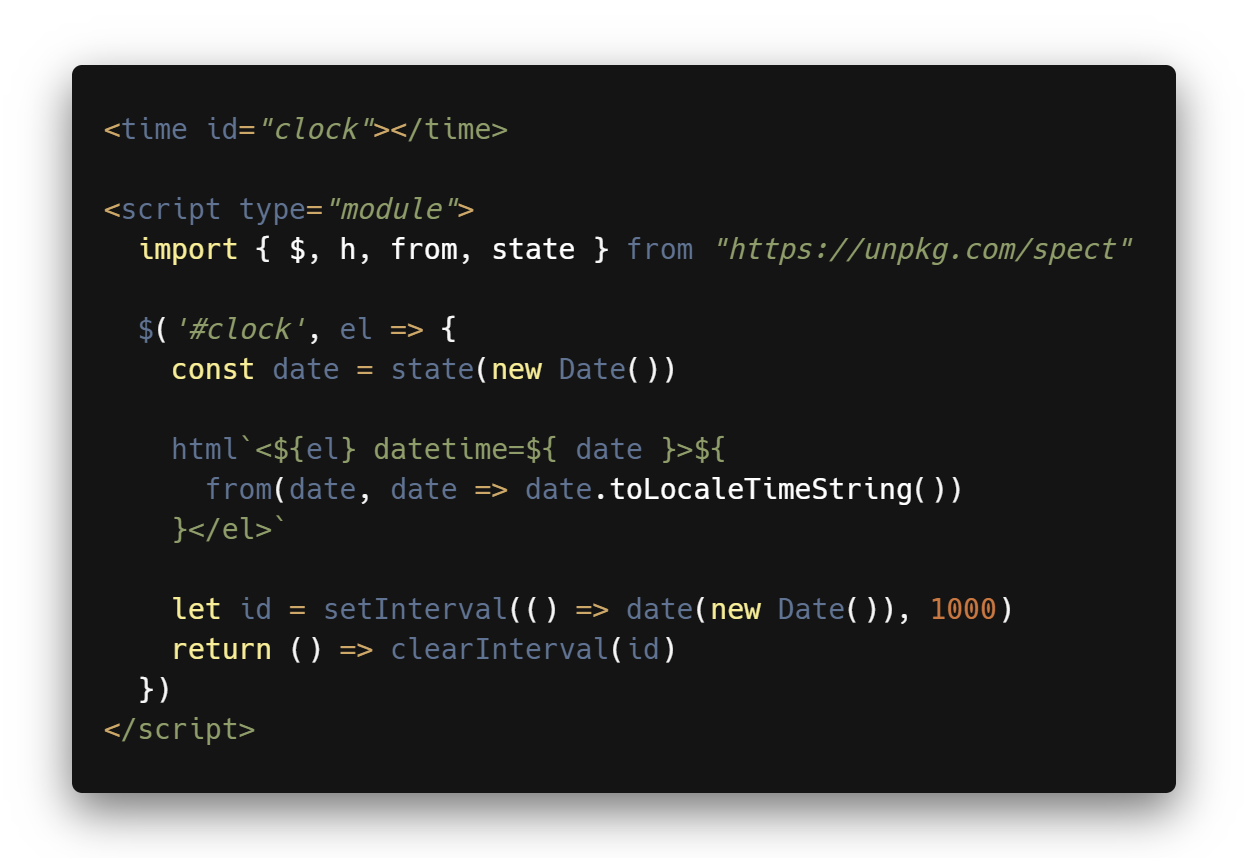
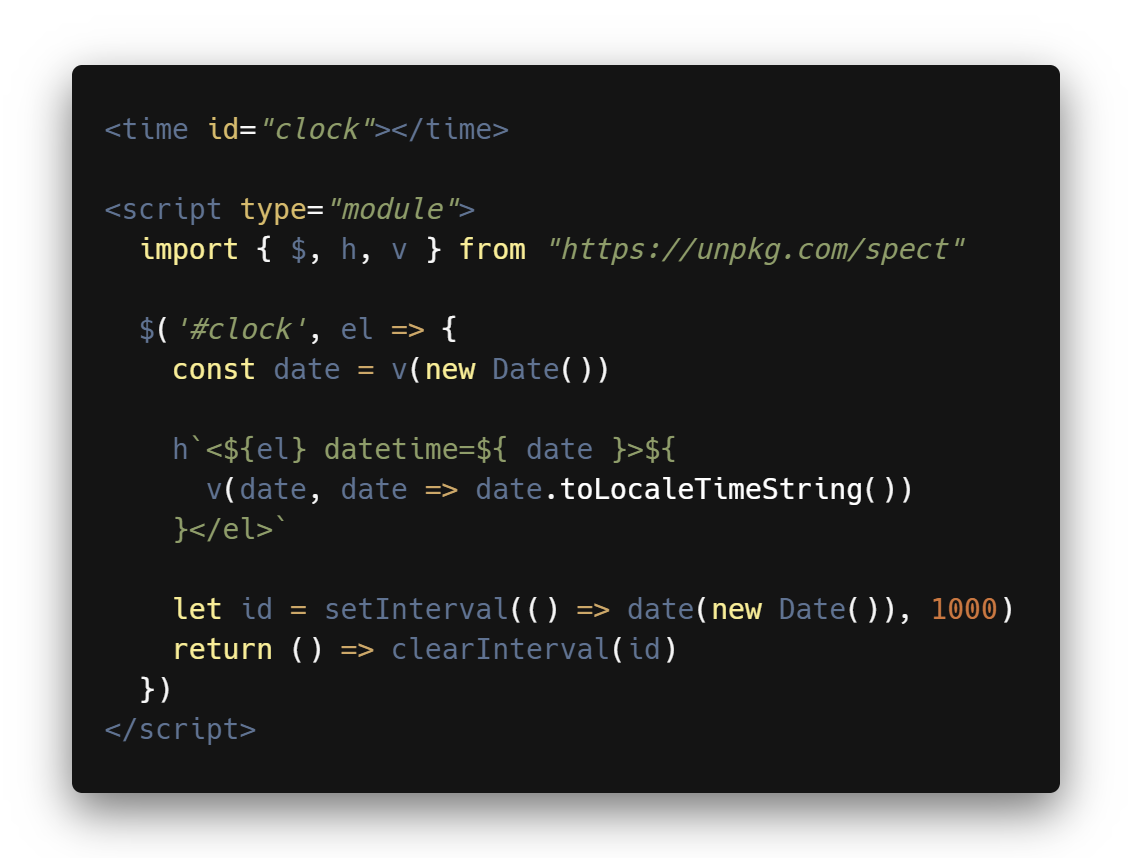
Update preview and example

diff --git a/readme.md b/readme.md
@@ -12,7 +12,7 @@
   <img src="https://img.shields.io/badge/stability-unstable-yellowgreen"/>
 </p>
 
-<p align="center"><img src="/preview.png" width="624"/></p>
+<p align="center"><img src="/preview.png" width="566"/></p>
 <p align="center">▶ <a href="https://codepen.io/dyv/pen/oNXXZEb" target="_blank"><strong>Run</strong></a></p>
 <br/>
 
@@ -20,13 +20,13 @@
 <time id="clock"></time>
 
 <script type="module">
-  import { $, h, from, state, calc } from "https://unpkg.com/spect"
+  import { $, h, v } from "https://unpkg.com/spect"
 
   $('#clock', el => {
-    const date = state(new Date())
+    const date = v(new Date())
 
-    html`<${el} datetime=${ date }>${
-      from(date, date => date.toLocaleTimeString())
+    h`<${el} datetime=${ date }>${
+      v(date, date => date.toLocaleTimeString())
     }</el>`
 
     let id = setInterval(() => date(new Date()), 1000)
@@ -86,11 +86,11 @@ Consider simple user welcoming example.
 <div class="user">Loading...</div>
 
 <script type="module">
-import { $, html, state } from 'spect'
+import { $, h, v } from 'spect'
 
 $('.user', async el => {
-  const username = state()
-  html`<${el}>Hello, ${ username }!</>`
+  const username = v('guest')
+  h`<${el}>Hello, ${ username }!</>`
 
   const user = await (await fetch('/user')).json()
   username(user.name)
@@ -98,7 +98,9 @@ $('.user', async el => {
 </script>
 ```
 
-The `$` assigns an _aspect function_ to the `.user` element. `state` here acts as _useState_, but creates an observable `username`. `html` is reactive − it rerenders automatically whenever `username` changes.
+`$` defines a `.user` rule, assigning an _aspect_ callback for matching elements, similar to _CSS_ or _jQuery_, but live.
+`h` is _hyperscript_ / _htm_ in one, declaring markup effect. It rerenders automatically whenever `username` changes.
+`v` is _observable_ acting as _useState_.
 
 <!--
 Consider simple todo app.
@@ -132,7 +134,7 @@ $('.todo-form', el => on(el, 'submit', e => {
 Input element here is uncontrolled and logic closely follows native js to provide _progressive enhancement_. _**`list`**_ creates an observable array `todos`, mutating it automatically rerenders _**`html`**_.
 -->
 
-See all [/examples](examples).
+See more [/examples](examples).
 
 <!--
 See all examples...
